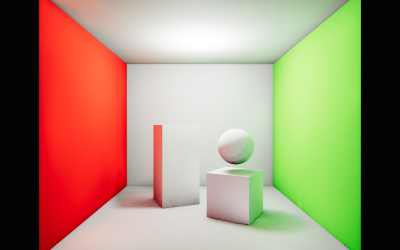
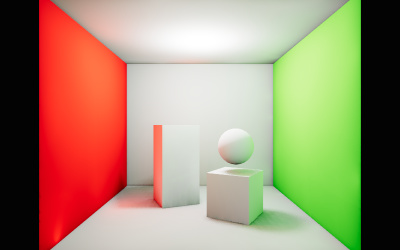
test(vpl): refresh expected emissive transport screenshots

diff --git a/examples/jsm/lighting/VirtualPointLightGenerator.js b/examples/jsm/lighting/VirtualPointLightGenerator.js
@@ -122,7 +122,10 @@ class VirtualPointLightGenerator {
 		};
 
 		const raycaster = new Raycaster();
-		// Native Mesh.raycast is used. Alpha cutouts require considering later intersections.
+		// Native Mesh.raycast ignores this hint. Preserve the existing opaque closest-hit
+		// optimization for callers that already installed an accelerated mesh raycaster.
+		// Alpha cutouts require considering later intersections.
+		raycaster.firstHitOnly = ! surfaces.some( surface => ( Array.isArray( surface.material ) ? surface.material : [ surface.material ] ).some( material => material.alphaTest > 0 ) );
 		const normalMatrix = new Matrix3();
 		const throughput = new Color(), albedo = new Color();
 		const origin = new Vector3(), direction = new Vector3(), u = new Vector3(), v = new Vector3();
